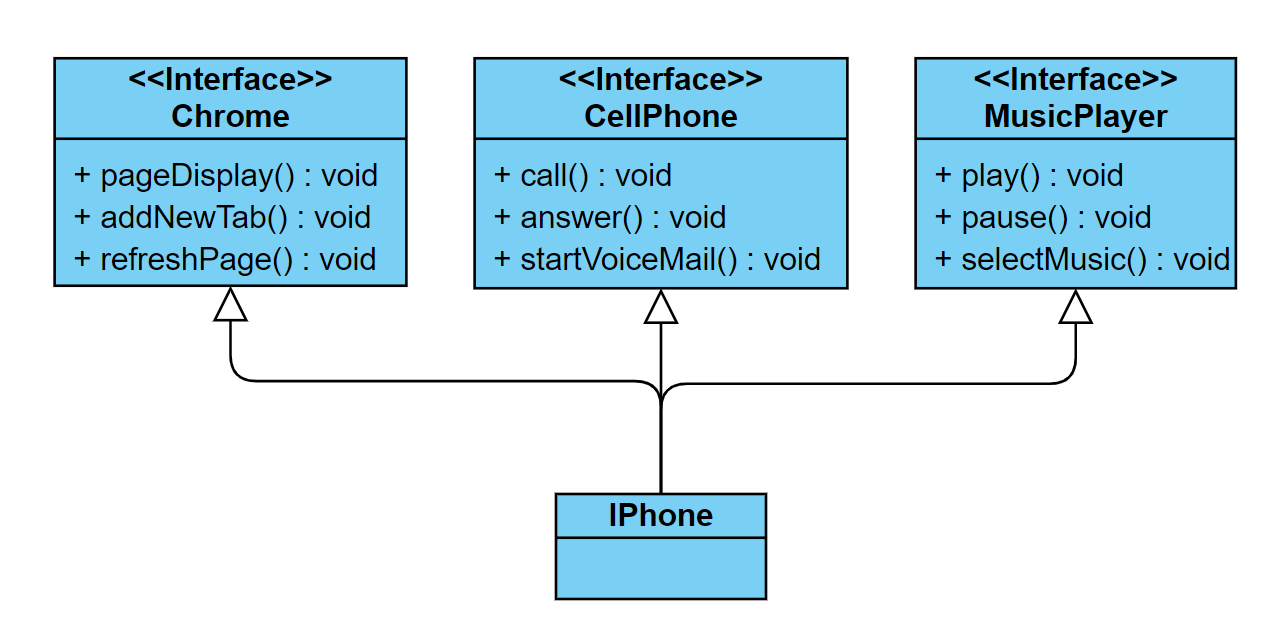
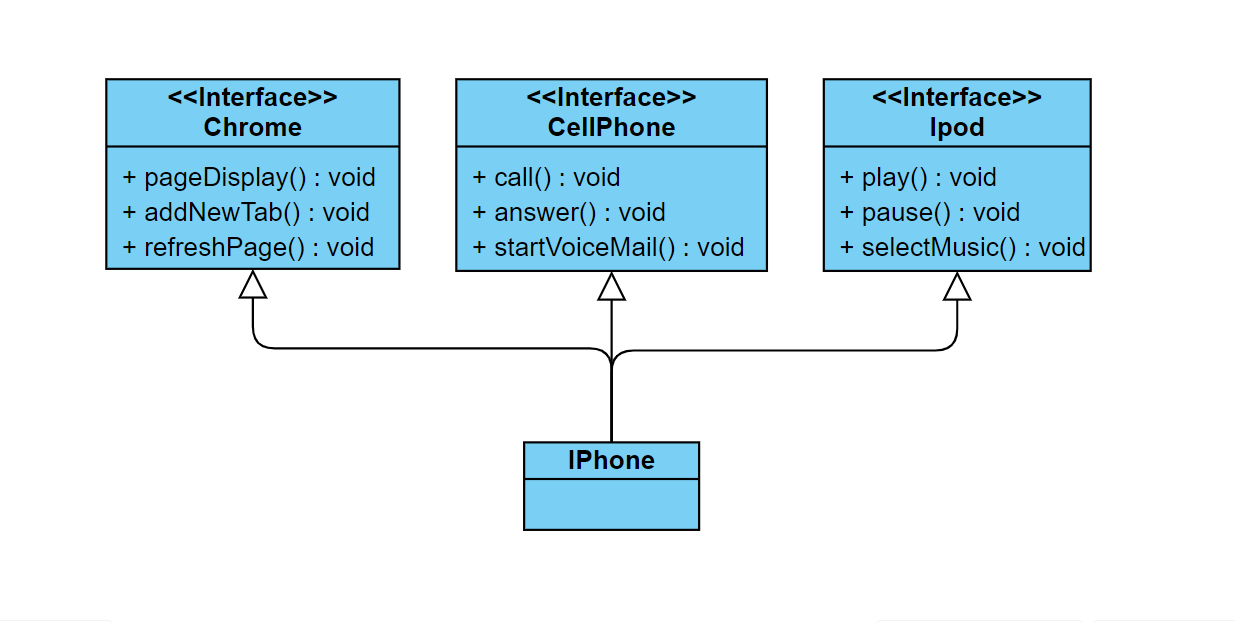
add README file

Changed region(s): [[0.1846, 0.061, 0.9846, 0.9454], [0.0308, 0.061, 0.3385, 0.549]]

diff --git a/src/com/poo/smartphone/iphone/IPhone.java b/src/com/poo/smartphone/iphone/IPhone.java
@@ -1,8 +1,8 @@
 package com.poo.smartphone.iphone;
 
-import com.poo.smartphone.browser.Chrome;
+import com.poo.smartphone.internetBrowser.Chrome;
 import com.poo.smartphone.musicPlayer.IPod;
-import com.poo.smartphone.cellphone.CellPhone;
+import com.poo.smartphone.telephoneDevice.CellPhone;
 
 public class IPhone implements Chrome, IPod, CellPhone {
 

diff --git a/src/com/poo/smartphone/telephoneDevice/CellPhone.java b/src/com/poo/smartphone/telephoneDevice/CellPhone.java
@@ -1,0 +1,4 @@
+package com.poo.smartphone.telephoneDevice;
+
+public interface CellPhone {
+}

diff --git a/src/com/poo/smartphone/internetBrowser/Chrome.java b/src/com/poo/smartphone/internetBrowser/Chrome.java
@@ -1,0 +1,4 @@
+package com.poo.smartphone.internetBrowser;
+
+public interface Chrome {
+}

diff --git a/README.md b/README.md
@@ -1,0 +1,16 @@
+# POO - Challenge
+
+## DIO - Trilha Java Básico (Basic Java Trail)
+www.dio.me
+
+Modeling and diagramming the representation in UML and Code regarding the iPhone component.
+
+Based on the iPhone launch video as per the link below, use a UML tool of your choice to create a diagram of the classes and interfaces with the aim of representing the iPhone's roles as: Music Player, Telephone Device and Internet Browser. Then create the classes and interfaces in .java file format
+
+[Steve Jobs iPhone_1 presentation - 2007](https://www.youtube.com/watch?v=9ou608QQRq8)
+
+
+###### Expected behaviors:
+* Music Player: play, pause, selectMusic
+* Telephone Device: call, answer, startVoiceMail
+* Internet Browser: pageDisplay, addNewTab, refreshPage
